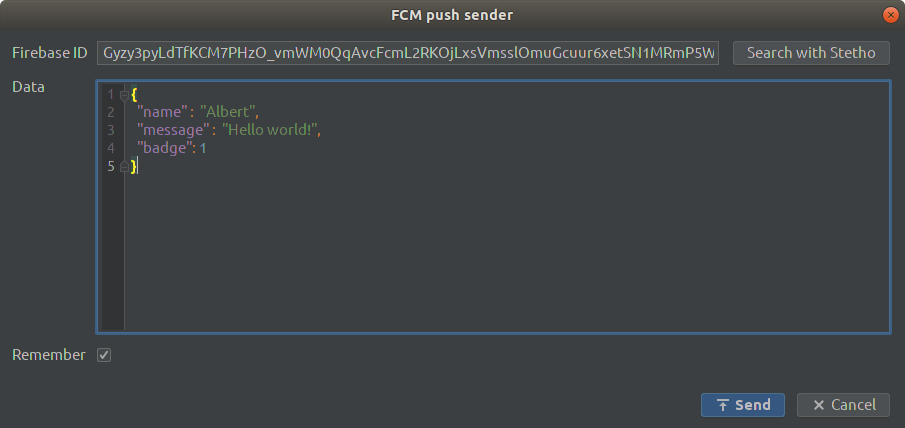
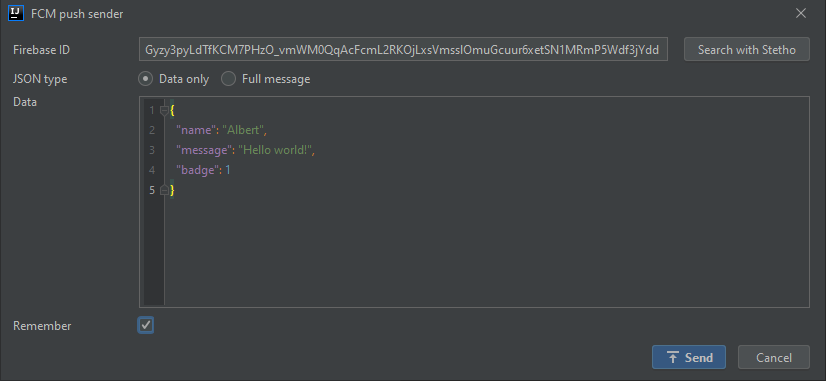
Update plugin version and documentation

diff --git a/src/com/abeade/plugin/fcm/push/settings/PushSettingsWrapper.kt b/src/com/abeade/plugin/fcm/push/settings/PushSettingsWrapper.kt
@@ -42,7 +42,6 @@ class PushSettingsWrapper(project: Project) {
 
     private val settingsPanel = SettingsPanel()
 
-    private var updatingData = false
     private var templateDataListener: ItemListener? = null
     private var templateMessageListener: ItemListener? = null
     private var nameDocumentListener: DocumentListener? = null

diff --git a/README.md b/README.md
@@ -1,11 +1,11 @@
 ![JetBrains IntelliJ Plugins](https://img.shields.io/jetbrains/plugin/v/12104-fcm-push-sender.svg?color=green&style=plastic)
 
 # FCM push sender
-Sends push notifications using Firebase Cloud Messaging (FCM).<br>
-Uses <a href="http://facebook.github.io/stetho/">Stetho</a>'s prefs dumpapp plugin to find the application Firebase Registration ID token in app shared preferences
+Sends push notifications using [Firebase Cloud Messaging (FCM)](https://firebase.google.com/docs/cloud-messaging).<br>
+Uses [Stetho](http://facebook.github.io/stetho/)'s prefs dumpapp plugin to find the application Firebase Registration ID token in app shared preferences
 
 # Installation
-You can install the plugin from the [Plugin Repository](https://plugins.jetbrains.com/plugin/12104-fcm-push-sender).
+You can install the plugin from the [IntelliJ Plugin Repository](https://plugins.jetbrains.com/plugin/12104-fcm-push-sender).
 
 Or you can download the latest binary from [releases](https://github.com/abeade/fcm-push-plugin/releases) on this repo
 
@@ -30,6 +30,36 @@ When using this option the FCM push sender dialog will be shown:
 At this point the plugin tries to find the app Firebase Id in the configured shared preference key, if the id is found it will be shown, otherwise you can set it manually.
 
 The "Remember" check allows to store the current data for next plugin executions.
+
+### JSON type
+
+The plugin uses the legacy [Firebase Cloud Messaging HTTP protocol](https://firebase.google.com/docs/cloud-messaging/http-server-ref) to send push notifications.
+
+You can select "Data only" or "Full message" JSON types:
+
+#### Data only
+
+This type allows only to provide the `data` field of the payload.
+
+```json
+{
+  "to" : "bk3RNwTe3H0:CI2k_HHwgIpoDKCIZvvDMExUdFQ3P1...",
+  "data" : [Provided JSON object]
+}
+```
+
+#### Full message
+
+This type allows full control over the message payload. The plugin will add the `to` field for you.
+
+```json
+{
+  "to" : "bk3RNwTe3H0:CI2k_HHwgIpoDKCIZvvDMExUdFQ3P1...",
+  [Provided JSON object]
+}
+```
+
+See [Firebase Cloud Messaging HTTP protocol](https://firebase.google.com/docs/cloud-messaging/http-server-ref) for more information about the HTTP syntax.
 
 # Extra configuration
 Also you can create, import and export templates:
